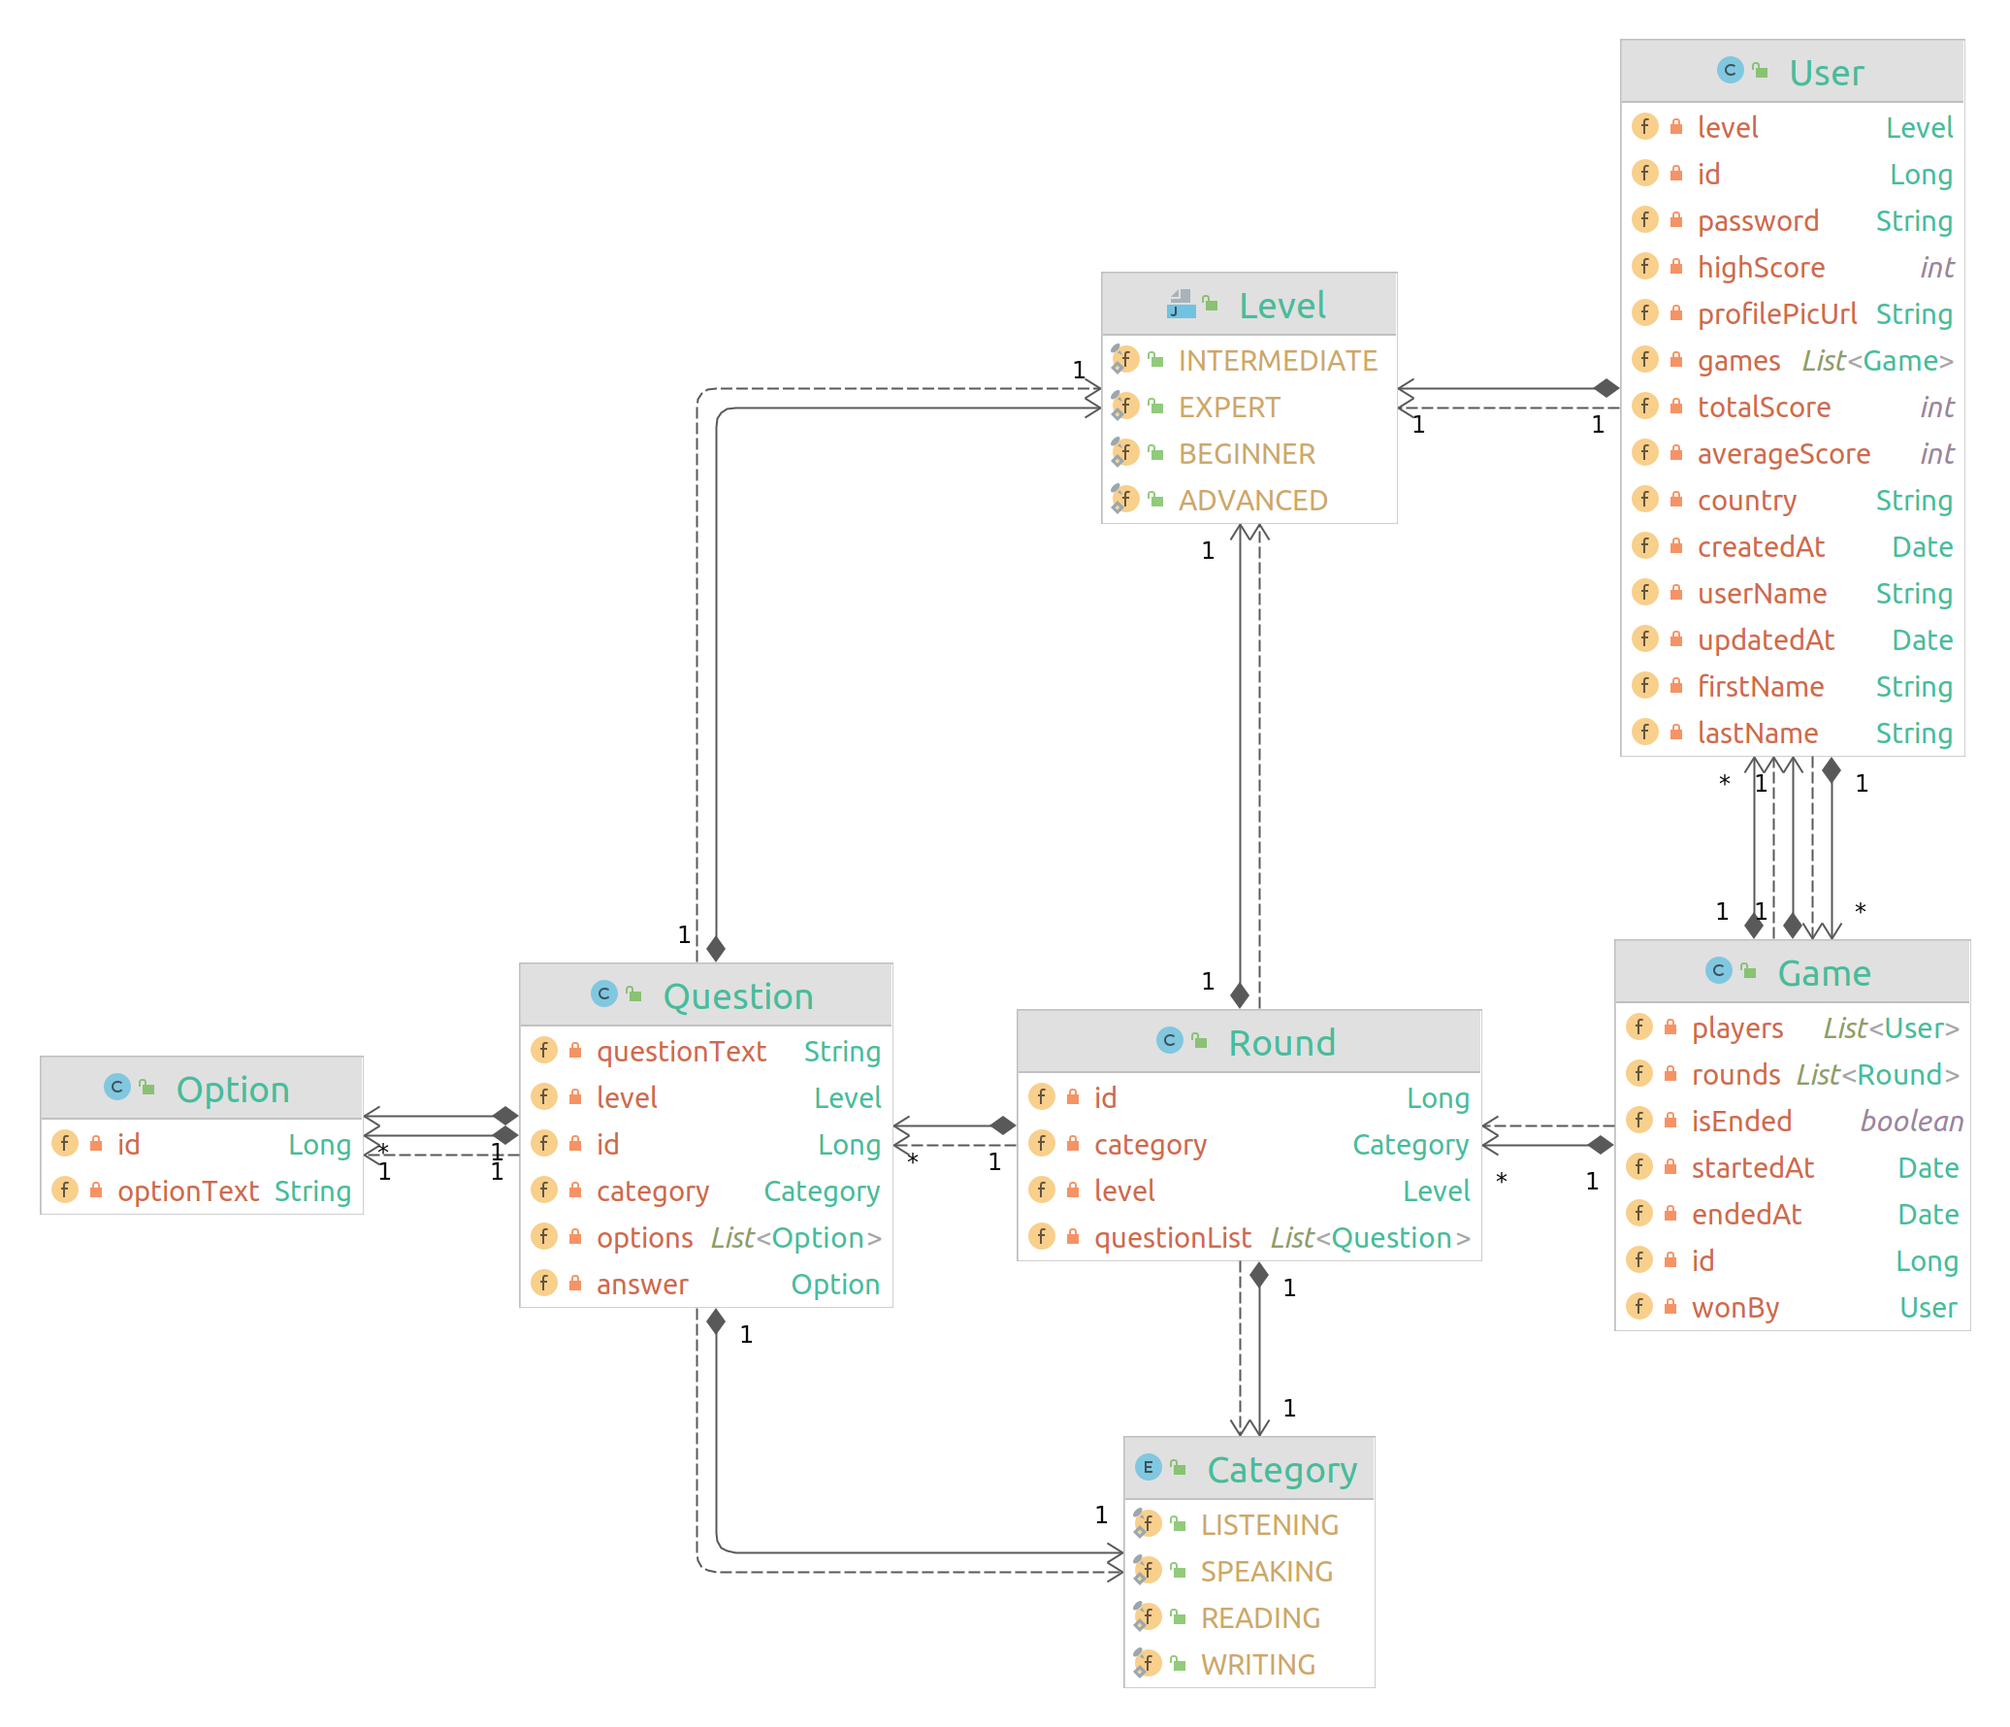
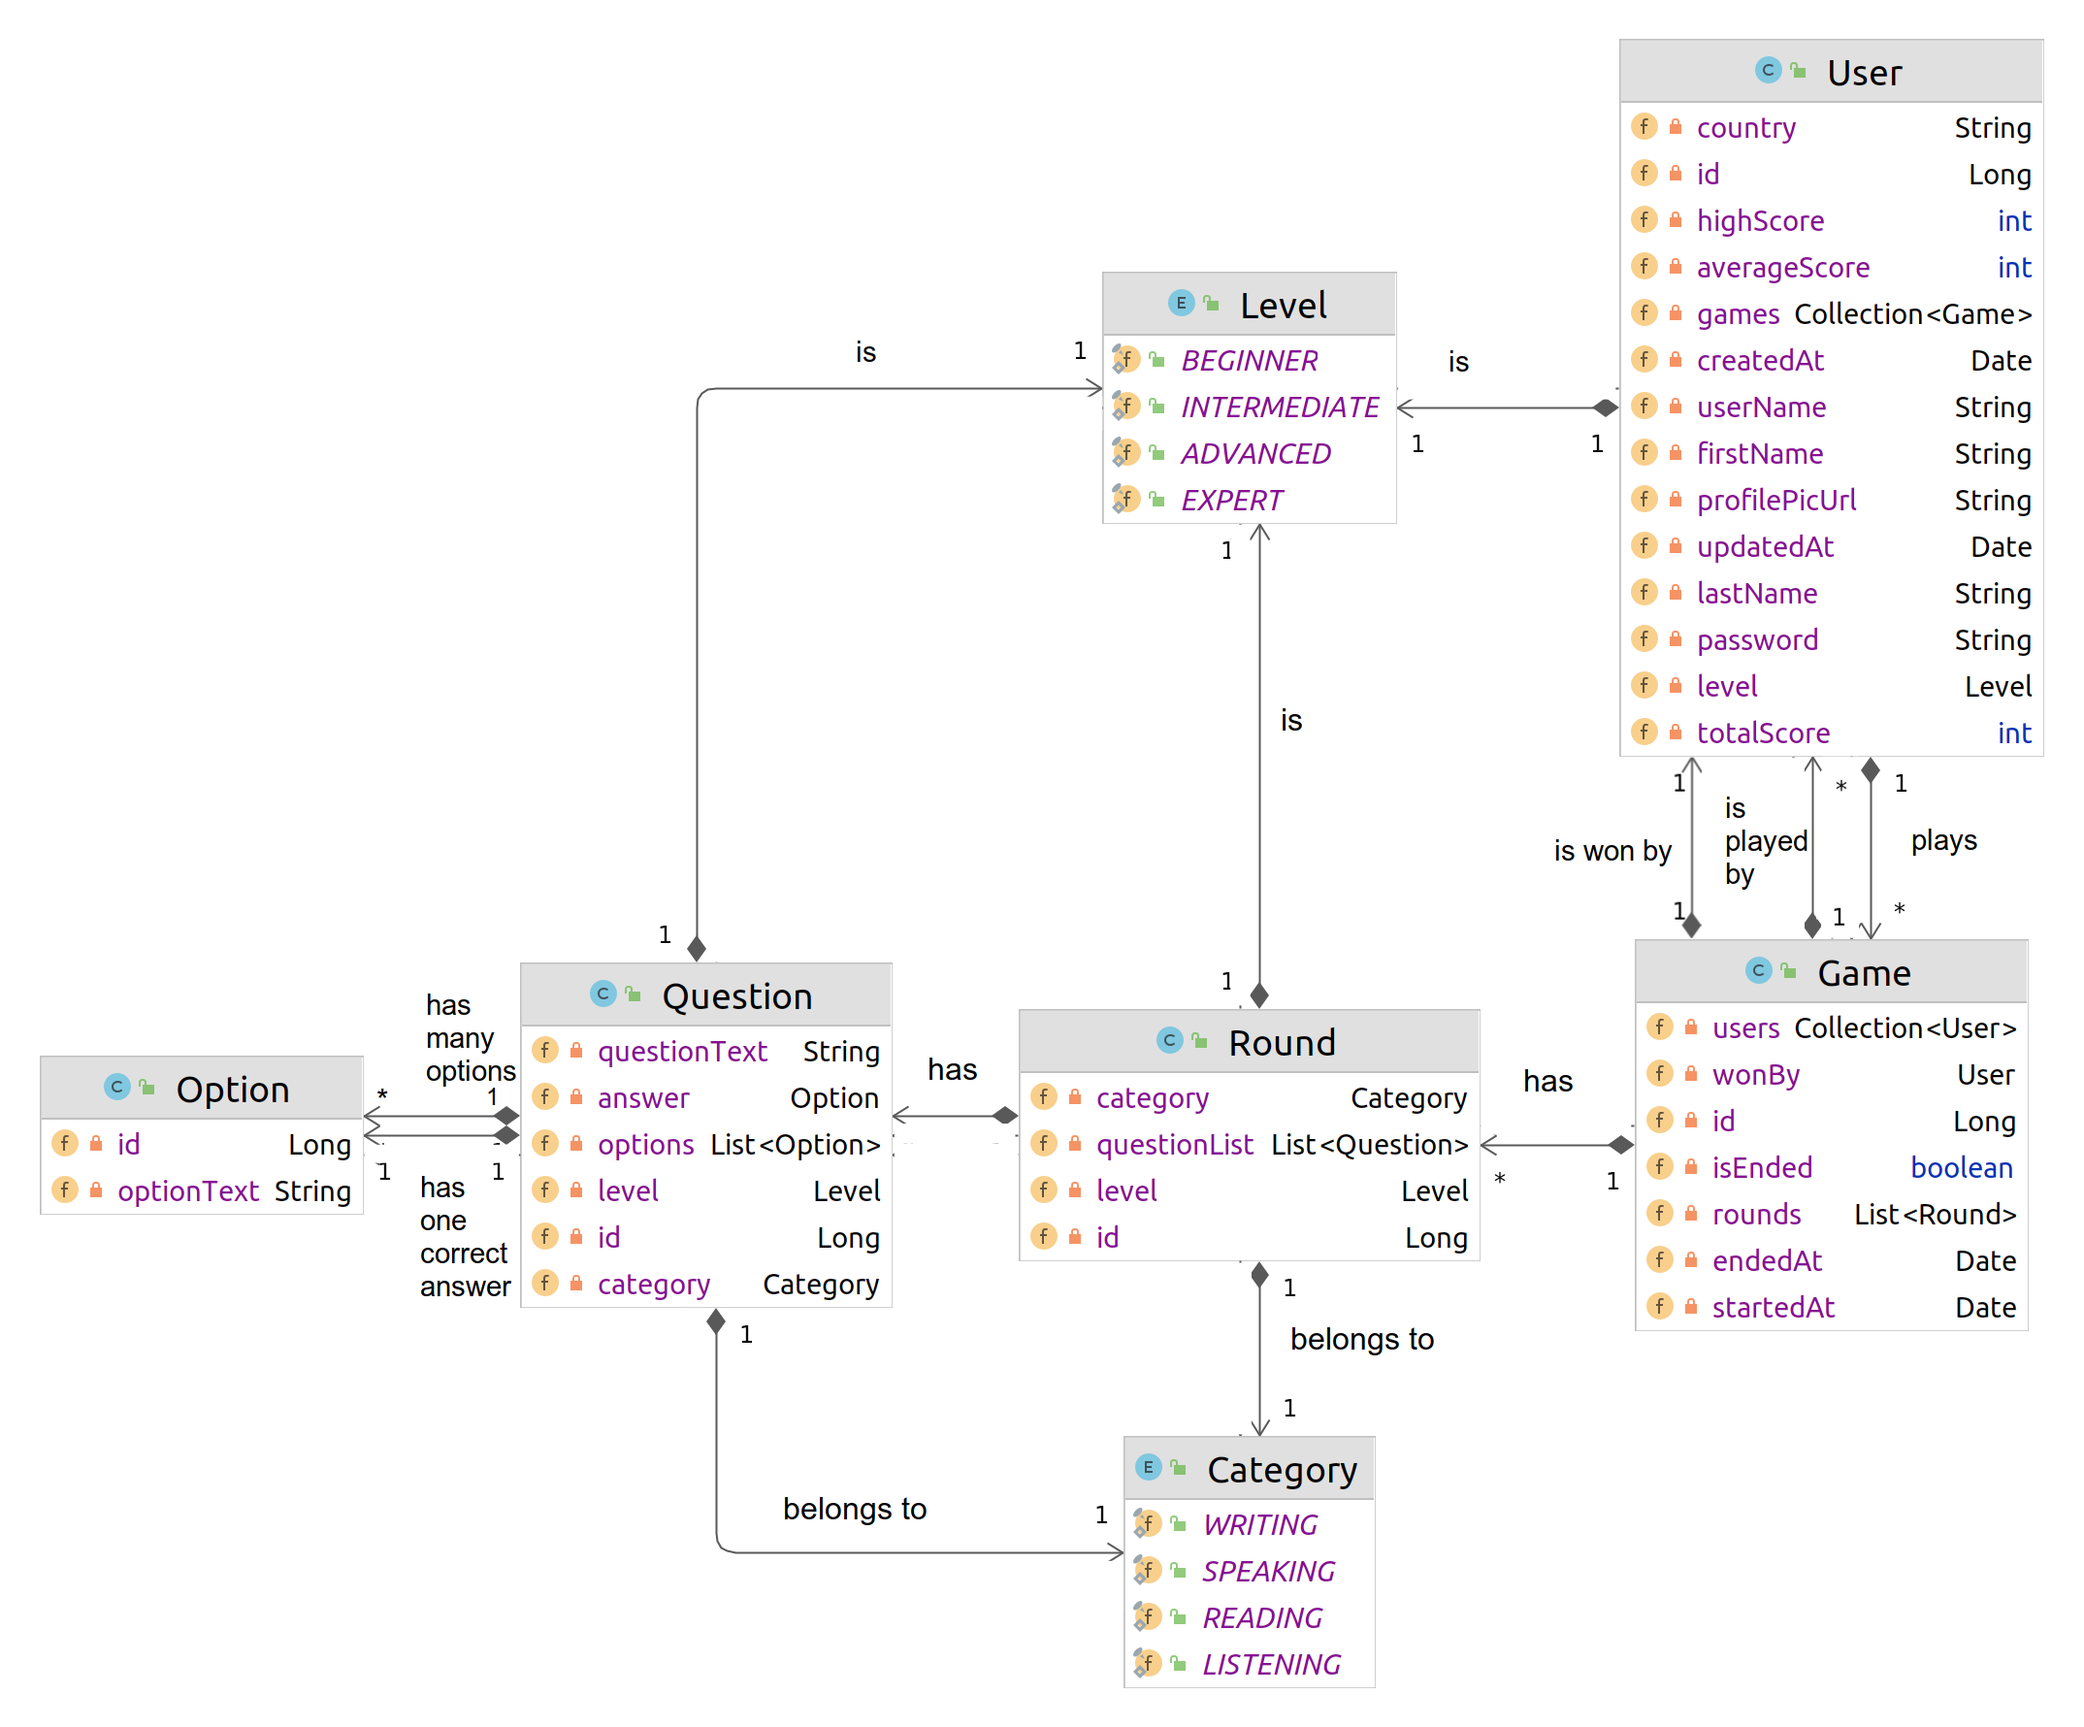
updated diagram and readme

diff --git a/backend/languagegame/src/main/java/de/oncampus/patterns/languagegame/persistence/model/Game.java b/backend/languagegame/src/main/java/de/oncampus/patterns/languagegame/persistence/model/Game.java
@@ -15,11 +15,14 @@ public class Game {
 
     private Date endedAt;
 
-    @OneToMany(targetEntity=Round.class, mappedBy="game", fetch=FetchType.EAGER)
+    @OneToMany
     private List<Round> rounds;
 
    @ManyToMany(mappedBy = "games")
     private Collection<User> users;
+
+   @OneToOne
+   private User wonBy;
 
     private boolean isEnded;
 
@@ -69,5 +72,13 @@ public class Game {
 
     public void setUsers(Collection<User> users) {
         this.users = users;
+    }
+
+    public User getWonBy() {
+        return wonBy;
+    }
+
+    public void setWonBy(User wonBy) {
+        this.wonBy = wonBy;
     }
 }

diff --git a/backend/languagegame/src/main/java/de/oncampus/patterns/languagegame/persistence/model/Round.java b/backend/languagegame/src/main/java/de/oncampus/patterns/languagegame/persistence/model/Round.java
@@ -9,9 +9,6 @@ public class Round {
     @Id
     private Long id;
 
-    @ManyToOne
-    private Game game;
-
     @OneToMany(targetEntity=Question.class, fetch= FetchType.EAGER)
     private List<Question> questionList;
 

diff --git a/README.md b/README.md
@@ -15,6 +15,3 @@ A language learning multiplayer game
 ## Class diagram
 ![alt text](diagram/class%20diagram.png "class diagram")
 *Class diagram of data entities*
-
-![alt text](diagram/Class%20diagram%20with%20controllers%20and%20repositories.png "class diagram extended")
-*Class diagram with controllers and repositories*
